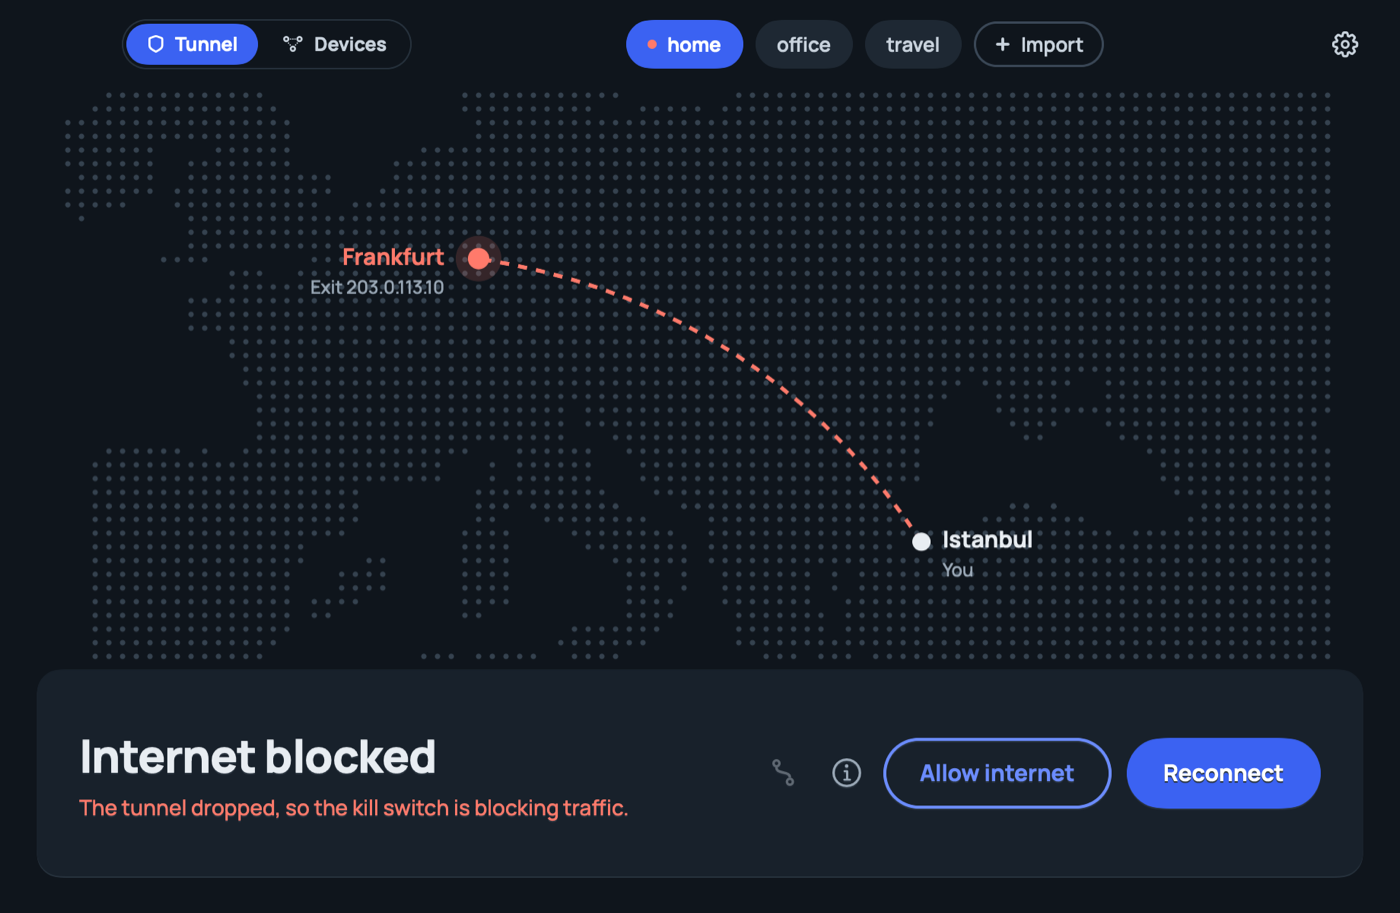
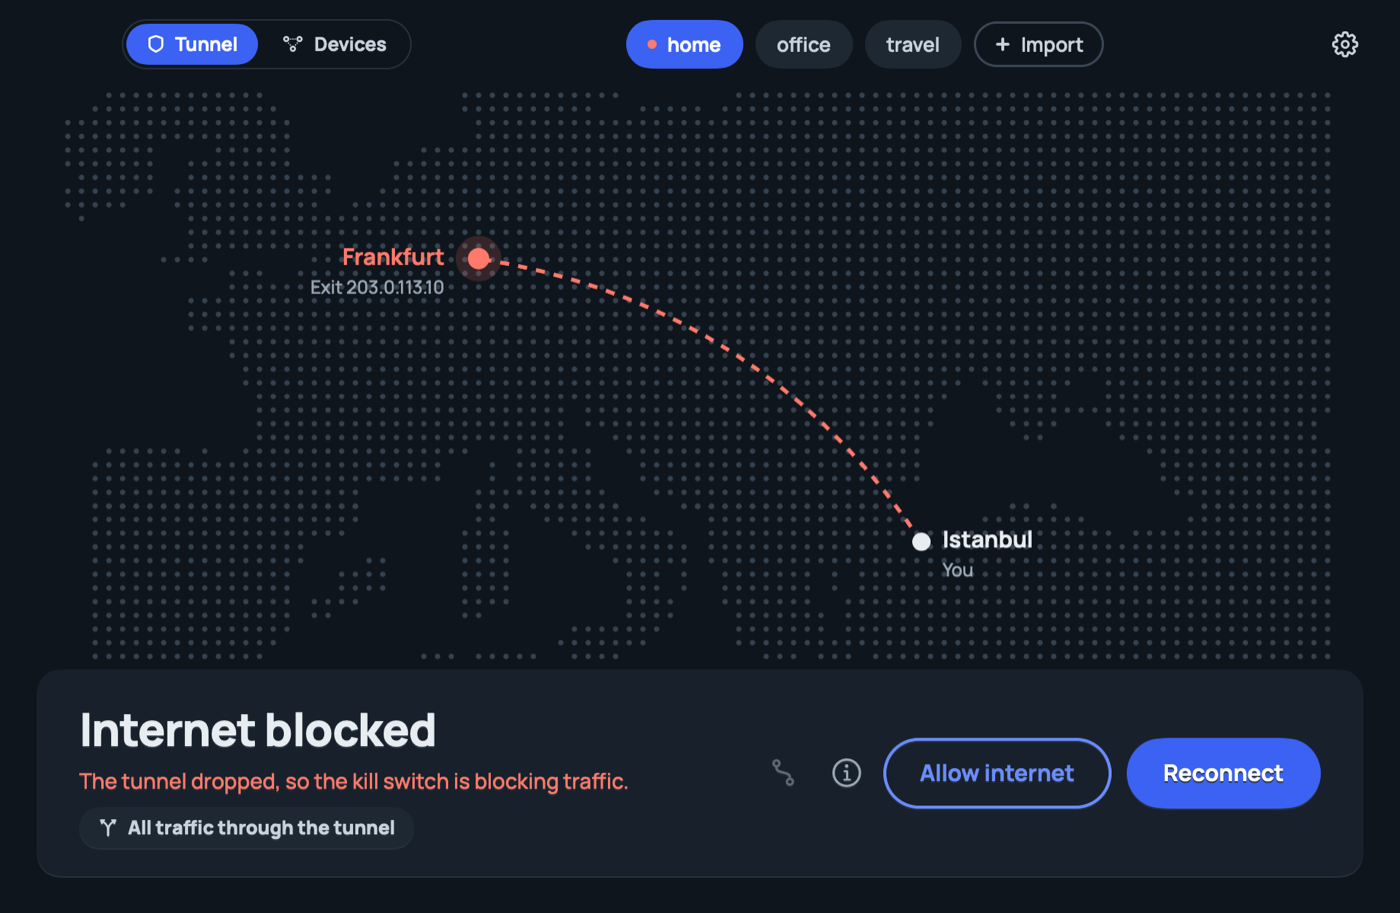
Split tunnel screenshot in the README, refresh status card screenshots

Changed region(s): [[0.0614, 0.7667, 0.4607, 0.92]]

diff --git a/Sources/WirelyApp/Debug/PreviewRenderer.swift b/Sources/WirelyApp/Debug/PreviewRenderer.swift
@@ -362,6 +362,9 @@ enum PreviewRenderer {
         let minSize = CGSize(width: 820, height: 560)
         let splitScenarios: [Scenario] = [
             splitScenario("split-panel", status: splitConnected),
+            // README: a full-tunnel server, so every row reads clean.
+            splitScenario("split-panel-docs", status: splitConnected,
+                          rules: ["intranet.example.com", "10.2.2.4", "10.8.0.0/16"], allowed: defaultAllowed),
             splitScenario("split-panel-empty", status: splitEmpty, rules: [], allowed: defaultAllowed),
             splitScenario("split-panel-all", status: connected, mode: .all),
             splitScenario("split-panel-disconnected", status: .disconnected),

diff --git a/README.md b/README.md
@@ -145,6 +145,10 @@ Switch to **Devices** at the top left. The router sits in the middle, every othe
 
 ### Split tunnel
 
+<p align="center">
+  <img src="docs/images/split-dark.png" width="620" alt="Wirely split tunnel: the map with the status card reading Split, 3 targets, and on the right the split panel set to Only selected with intranet.example.com, 10.2.2.4 and 10.8.0.0/16 in the list">
+</p>
+
 The button under the status on the main page (it reads *All traffic through the tunnel* or *Split, 3 targets*) opens the split panel. Choose **All traffic** (the default) or **Only selected**, then type a site (`example.com` covers its subdomains), an IP (`10.2.2.4`) or a network (`10.8.0.0/16`). Esc closes the panel.
 
 - **IP rules** become routes through the tunnel. The profile's own networks (AllowedIPs other than `0.0.0.0/0`) stay in the tunnel and show as *From the profile*.
